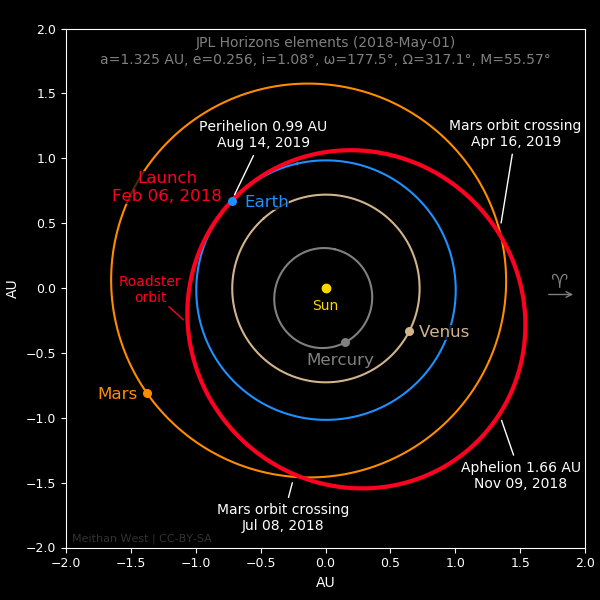
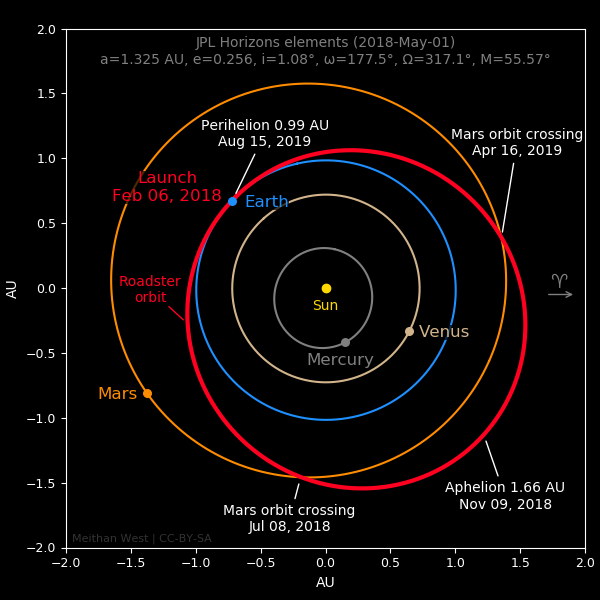
Slight tweaks to lines

diff --git a/Roadster_orbit.py b/Roadster_orbit.py
@@ -59,10 +59,6 @@ elset_time = datetime(2018, 5, 1)
 Roadster = CelestialBody("Roadster")
 Roadster.orbit = Orbit(primary=Sun, elements=(A*AU, EC, IN, W, OM, MA, elset_time))
 Roadster_elems = Roadster.get_elements()
-print(Roadster.get_elements())
-print(Roadster.orbit.M_at_time(diagram_date))
-
-print(Earth.get_elements())
 
 # Create figure
 plt.style.use('dark_background')
@@ -110,17 +106,17 @@ plt.annotate("Earth", xy=(Earth_x/AU, Earth_y/AU), xytext=(35, -6), textcoords="
 
 plt.annotate("Mars", xy=(Mars_x/AU, Mars_y/AU), xytext=(-30, -6), textcoords="offset pixels", bbox=bbox, color=Mars_color, ha="center", fontsize=12)
 
-plt.annotate("Roadster\norbit", xy=(-1.08, -0.26), xytext=(-35, 20), textcoords="offset pixels", bbox=bbox, ha="center", fontsize=10, arrowprops=dict(arrowstyle="-", connectionstyle="arc3", color=Roadster_color), color=Roadster_color)
-
 plt.annotate("Launch\n%s" % launch_date.strftime("%b %d, %Y"), xy=(Earth_x/AU, Earth_y/AU), xytext=(-65,0), textcoords="offset pixels", bbox=bbox, color=Roadster_color, ha="center", fontsize=12)
 
-plt.annotate("Mars orbit crossing\n%s" % crossing1_date.strftime("%b %d, %Y"), xy=(-0.25, -1.48), xytext=(-10,-50), textcoords="offset pixels", ha="center", fontsize=10, arrowprops=dict(arrowstyle="-", connectionstyle="arc3"))
+plt.annotate("Roadster\norbit", xy=(-1.08, -0.26), xytext=(-35, 20), textcoords="offset pixels", bbox=bbox, ha="center", fontsize=10, arrowprops=dict(arrowstyle="-", connectionstyle="arc3", color=Roadster_color), color=Roadster_color)
 
-plt.annotate("Aphelion %.2f AU\n%s" % (aphelion_dist, aphelion_date.strftime("%b %d, %Y")), xy=(1.35, -1.0), xytext=(20,-70), textcoords="offset pixels", ha="center", fontsize=10, arrowprops=dict(arrowstyle="-", connectionstyle="arc3"))
+plt.annotate("Mars orbit crossing\n%s" % crossing1_date.strftime("%b %d, %Y"), xy=(-0.20, -1.49), xytext=(-10,-50), textcoords="offset pixels", ha="center", fontsize=10, arrowprops=dict(arrowstyle="-", connectionstyle="arc3"))
 
-plt.annotate("Mars orbit crossing\n%s" % crossing2_date.strftime("%b %d, %Y"), xy=(1.35, 0.48), xytext=(15,80), textcoords="offset pixels", ha="center", fontsize=10, arrowprops=dict(arrowstyle="-", connectionstyle="arc3"))
+plt.annotate("Mars orbit crossing\n%s" % crossing2_date.strftime("%b %d, %Y"), xy=(1.36, 0.41), xytext=(15,80), textcoords="offset pixels", ha="center", fontsize=10, arrowprops=dict(arrowstyle="-", connectionstyle="arc3"))
 
-plt.annotate("Perihelion %.2f AU\n%s" % (perihelion_dist, perihelion_date.strftime("%b %d, %Y")), xy=(-0.71, 0.70), xytext=(30,50), textcoords="offset pixels", ha="center", fontsize=10, arrowprops=dict(arrowstyle="-", connectionstyle="arc3"))
+plt.annotate("Aphelion %.2f AU\n%s" % (aphelion_dist, aphelion_date.strftime("%b %d, %Y")), xy=(1.23, -1.16), xytext=(20,-70), textcoords="offset pixels", ha="center", fontsize=10, arrowprops=dict(arrowstyle="-", connectionstyle="arc3"))
+
+plt.annotate("Perihelion %.2f AU\n%s" % (perihelion_dist, perihelion_date.strftime("%b %d, %Y")), xy=(-0.70, 0.71), xytext=(30,50), textcoords="offset pixels", ha="center", fontsize=10, arrowprops=dict(arrowstyle="-", connectionstyle="arc3"))
 
 plt.text(1.8, 0, "♈", ha="center", fontsize=14, color="gray")
 plt.annotate("", xy=(1.93, -0.05), xytext=(-30,0), textcoords="offset pixels", arrowprops=dict(arrowstyle="->", connectionstyle="arc3", color="gray"))
@@ -129,7 +125,7 @@ s = "JPL Horizons elements (%s)\na=%.3f AU, e=%.3f, i=%.2f°, ω=%.1f°, Ω=%.1f
 plt.text(0, 1.73, s, ha="center", color="gray", fontsize=10)
 
 # Copyright notice -- remove for Wikipedia use
-#plt.text(-1.95, -1.95, "Meithan West | CC-BY-SA", ha="left", fontsize=8, color="0.2")
+plt.text(-1.95, -1.95, "Meithan West | CC-BY-SA", ha="left", fontsize=8, color="0.2")
 
 # Plot settings
 plt.xlim(-2,2)
@@ -145,6 +141,6 @@ plt.subplots_adjust(top=0.99, bottom=0.05, left=0.110, right=0.975, hspace=0.2, 
 # Save figure
 plt.savefig(fname)
 print("Saved %s" % fname)
-#plt.show()
+plt.show()
 
 plt.close()
